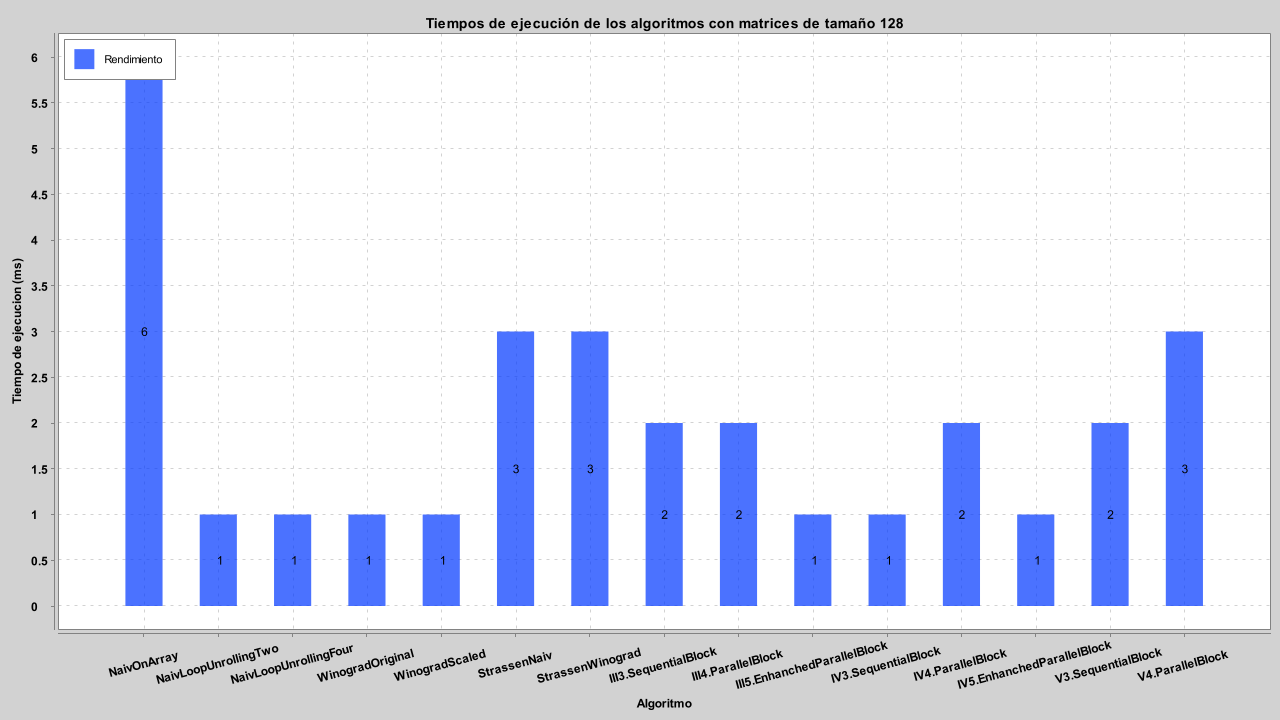
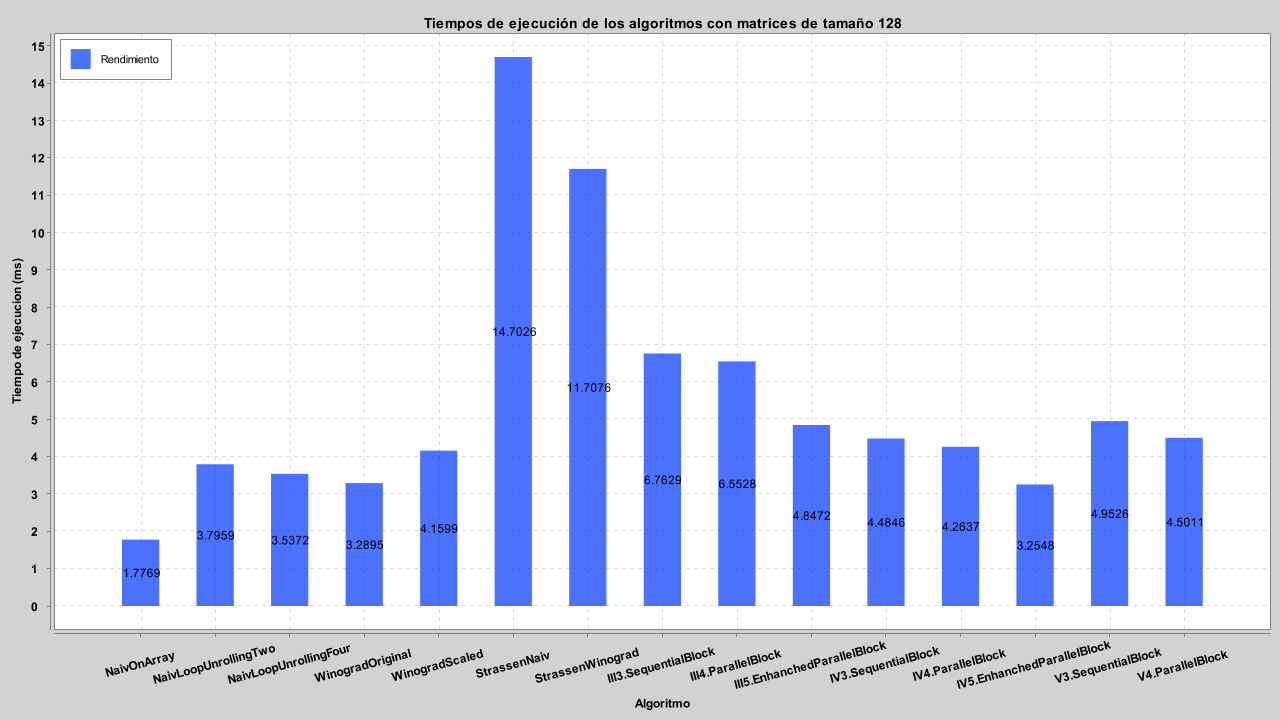
Se cambian las graficas a decimales

diff --git a/src/main/java/org/example/CalculadoraTiempos.java b/src/main/java/org/example/CalculadoraTiempos.java
@@ -25,7 +25,7 @@ import org.example.IV5_EnhancedParallelBlock.IV5_EnhancedParallelBlock;
 
 public class CalculadoraTiempos {
         protected static final List<String> categorias = new ArrayList<>();
-        protected static final List<Long> tiemposEjecucion = new ArrayList<>();
+        protected static final List<Double> tiemposEjecucion = new ArrayList<>();
     public static void calcularTiempos(int i) {
 
         double[][] a;
@@ -75,80 +75,80 @@ public class CalculadoraTiempos {
 
     }
     private static void calcularV4ParallelBlock(double[][] a, double[][] b) {
-        long start = System.currentTimeMillis();
+        long start = System.nanoTime();
         V4_ParallelBlock.matrixMultiplicationParallel(a, b, a.length, a.length/4);
-        long end = System.currentTimeMillis();
-        long executionTime = end - start;
+        long end = System.nanoTime();
+        double executionTime = (end - start)/1000000.0;
         categorias.add("V4.ParallelBlock");
         tiemposEjecucion.add(executionTime);
         System.out.println("Tiempo de ejecución V4.ParallelBlock: " + executionTime + " milisegundos");
         PerformanceLogger.logPerformance("V.4ParallelBlock ", a.length, executionTime);
     }
     private static void calcularV3SequentialBlock(double[][] a, double[][] b, int i, int j) {
-        long start = System.currentTimeMillis();
+        long start = System.nanoTime();
         V3_SequentialBlock.blockMatrixMultiply(a, b, i, j);
-        long end = System.currentTimeMillis();
-        long executionTime = end - start;
+        long end = System.nanoTime();
+        double executionTime = (end - start)/1000000.0;
         categorias.add("V3.SequentialBlock");
         tiemposEjecucion.add(executionTime);
         System.out.println("Tiempo de ejecución V3.SequentialBlock: " + executionTime + " milisegundos");
         PerformanceLogger.logPerformance("V.3SequentialBlock ", a.length, executionTime);
     }
     private static void calcularIV5EnhanchedParallelBlock(double[][] a, double[][] b) {
-        long start = System.currentTimeMillis();
+        long start = System.nanoTime();
         IV5_EnhancedParallelBlock.matrixMultiplicationParallel(a, b, a.length, a.length/4);
-        long end = System.currentTimeMillis();
-        long executionTime = end - start;
+        long end = System.nanoTime();
+        double executionTime = (end - start)/1000000.0;
         categorias.add("IV5.EnhanchedParallelBlock");
         tiemposEjecucion.add(executionTime);
         System.out.println("Tiempo de ejecución IV5.EnhanchedParallelBlock: " + executionTime + " milisegundos");
         PerformanceLogger.logPerformance("IV.5EnhanchedParallelBlock ", a.length, executionTime);
     }
     private static void calcularIV4ParallelBlock(double[][] a, double[][] b) {
-        long start = System.currentTimeMillis();
+        long start = System.nanoTime();
         IV4_ParallelBlock.matrixMultiplicationParallel(a, b, a.length, a.length/4);
-        long end = System.currentTimeMillis();
-        long executionTime = end - start;
+        long end = System.nanoTime();
+        double executionTime = (end - start)/1000000.0;
         categorias.add("IV4.ParallelBlock");
         tiemposEjecucion.add(executionTime);
         System.out.println("Tiempo de ejecución IV4.ParallelBlock: " + executionTime + " milisegundos");
         PerformanceLogger.logPerformance("IV.4ParallelBlock ", a.length, executionTime);
     }
     private static void calcularIV3SequentialBlock(double[][] a, double[][] b, int i, int j) {
-        long start = System.currentTimeMillis();
+        long start = System.nanoTime();
         IV3_SequentialBlock.blockMatrixMultiply(a, b, i, j);
-        long end = System.currentTimeMillis();
-        long executionTime = end - start;
+        long end = System.nanoTime();
+        double executionTime = (end - start)/1000000.0;
         categorias.add("IV3.SequentialBlock");
         tiemposEjecucion.add(executionTime);
         System.out.println("Tiempo de ejecución IV3.SequentialBlock: " + executionTime + " milisegundos");
         PerformanceLogger.logPerformance("IV.3SequentialBlock ", a.length, executionTime);
     }
     private static void calcularIII5EnhanchedParallelBlock(double[][] a, double[][] b) {
-        long start = System.currentTimeMillis();
+        long start = System.nanoTime();
         III5_EnhancedParallelBlock.matrixMultiplicationParallel(a, b, a.length, a.length/4);
-        long end = System.currentTimeMillis();
-        long executionTime = end - start;
+        long end = System.nanoTime();
+        double executionTime = (end - start)/1000000.0;
         categorias.add("III5.EnhanchedParallelBlock");
         tiemposEjecucion.add(executionTime);
         System.out.println("Tiempo de ejecución III5.EnhanchedParallelBlock: " + executionTime + " milisegundos");
         PerformanceLogger.logPerformance("III.5EnhanchedParallelBlock ", a.length, executionTime);
     }
     private static void calcularIII4ParallelBlock(double[][] a, double[][] b) {
-        long start = System.currentTimeMillis();
+        long start = System.nanoTime();
         III4_ParallelBlock.matrixMultiplicationParallel(a, b, a.length, a.length/4);
-        long end = System.currentTimeMillis();
-        long executionTime = end - start;
+        long end = System.nanoTime();
+        double executionTime = (end - start)/1000000.0;
         categorias.add("III4.ParallelBlock");
         tiemposEjecucion.add(executionTime);
         System.out.println("Tiempo de ejecución III4.ParallelBlock: " + executionTime + " milisegundos");
         PerformanceLogger.logPerformance("III.4ParallelBlock ", a.length, executionTime);
     }
     private static void calcularIII3SequentialBlock(double[][] a, double[][] b, int i, int j) {
-        long start = System.currentTimeMillis();
+        long start = System.nanoTime();
         III3_SequentialBlock.blockMatrixMultiply(a, b, i, j);
-        long end = System.currentTimeMillis();
-        long executionTime = end - start;
+        long end = System.nanoTime();
+        double executionTime = (end - start)/1000000.0;
         categorias.add("III3.SequentialBlock");
         tiemposEjecucion.add(executionTime);
         System.out.println("Tiempo de ejecución III3.SequentialBlock: " + executionTime + " milisegundos");
@@ -156,10 +156,10 @@ public class CalculadoraTiempos {
     }
     private static void calcularStrassenWinograd(double[][] a, double[][] b, double[][] resultado, int n, int p,
             int m) {
-        long start = System.currentTimeMillis();
+        long start = System.nanoTime();
         StrassenWinograd.multiply(a, b, resultado, n, p, m);
-        long end = System.currentTimeMillis();
-        long executionTime = end - start;
+        long end = System.nanoTime();
+        double executionTime = (end - start)/1000000.0;
         categorias.add("StrassenWinograd");
         tiemposEjecucion.add(executionTime);
         System.out.println("Tiempo de ejecución StrassenWinograd: " + executionTime + " milisegundos");
@@ -167,20 +167,20 @@ public class CalculadoraTiempos {
 
     }
     private static void calcularStrassenNaiv(double[][] a, double[][] b) {
-        long start = System.currentTimeMillis();
+        long start = System.nanoTime();
         StrassenNaiv.multiply(a, b);
-        long end = System.currentTimeMillis();
-        long executionTime = end - start;
+        long end = System.nanoTime();
+        double executionTime = (end - start)/1000000.0;
         categorias.add("StrassenNaiv");
         tiemposEjecucion.add(executionTime);
         System.out.println("Tiempo de ejecución StrassenNaiv: " + executionTime + " milisegundos");
         PerformanceLogger.logPerformance("StrassenNaiv ", a.length, executionTime);
     }
     private static void calcularWinogradScaled(double[][] a, double[][] b, double[][] resultado, int n, int p, int m) {
-        long start = System.currentTimeMillis();
+        long start = System.nanoTime();
         WinogradScaled.multiply(a, b, resultado, n, p, m);
-        long end = System.currentTimeMillis();
-        long executionTime = end - start;
+        long end = System.nanoTime();
+        double executionTime = (end - start)/1000000.0;
         categorias.add("WinogradScaled");
         tiemposEjecucion.add(executionTime);
         System.out.println("Tiempo de ejecución WinogradScaled: " + executionTime + " milisegundos");
@@ -188,10 +188,10 @@ public class CalculadoraTiempos {
     }
     private static void calcularWinogradOriginal(double[][] a, double[][] b, double[][] resultado, int n, int p,
             int m) {
-        long start = System.currentTimeMillis();
+        long start = System.nanoTime();
         WinogradOriginal.multiply(a, b, resultado, n, p, m);
-        long end = System.currentTimeMillis();
-        long executionTime = end - start;
+        long end = System.nanoTime();
+        double executionTime = (end - start)/1000000.0;
         categorias.add("WinogradOriginal");
         tiemposEjecucion.add(executionTime);
         System.out.println("Tiempo de ejecución WinogradOriginal: " + executionTime + " milisegundos");
@@ -199,30 +199,30 @@ public class CalculadoraTiempos {
         
     }
     private static void calcularNaivLoopUnrollingFour(double[][] a, double[][] b) {
-        long start = System.currentTimeMillis();
+        long start = System.nanoTime();
         NaivLoopUnrollingFour.multiply(a, b);
-        long end = System.currentTimeMillis();
-        long executionTime = end - start;
+        long end = System.nanoTime();
+        double executionTime = (end - start)/1000000.0;
         categorias.add("NaivLoopUnrollingFour");
         tiemposEjecucion.add(executionTime);    
         System.out.println("Tiempo de ejecución NaivLoopUnrollingFour: " + executionTime + " milisegundos");
         PerformanceLogger.logPerformance("NaivLoopUnrollingFour ", a.length, executionTime);
     }
     private static void calcularNaivLoopUnrollingTwo(double[][] a, double[][] b) {
-        long start = System.currentTimeMillis();
+        long start = System.nanoTime();
         NaivLoopUnrollingTwo.multiply(a, b);
-        long end = System.currentTimeMillis();
-        long executionTime = end - start;
+        long end = System.nanoTime();
+        double executionTime = (end - start)/1000000.0;
         categorias.add("NaivLoopUnrollingTwo");
         tiemposEjecucion.add(executionTime);    
         System.out.println("Tiempo de ejecución NaivLoopUnrollingTwo: " + executionTime + " milisegundos");
         PerformanceLogger.logPerformance("NaivLoopUnrollingTwo ", a.length, executionTime);
     }
     private static void calcularNaivOnArray(double[][] a, double[][] b) {
-        long start = System.currentTimeMillis();
+        long start = System.nanoTime();
         NaivOnArray.multiply(a, b);
-        long end = System.currentTimeMillis();
-        long executionTime = end - start;
+        long end = System.nanoTime();
+        double executionTime = (end - start)/1000000.0;
         categorias.add("NaivOnArray");
         tiemposEjecucion.add(executionTime);
         System.out.println("Tiempo de ejecución NaivOnArray: " + executionTime + " milisegundos");    

diff --git a/src/main/java/org/example/PerformanceLogger.java b/src/main/java/org/example/PerformanceLogger.java
@@ -19,11 +19,11 @@ public class PerformanceLogger {
      * @param inputSize el tamaño de la entrada al algoritmo
      * @param executionTime el tiempo de ejecución del algoritmo en nanosegundos
      */
-    public static void logPerformance(String algorithmName, int inputSize, long executionTime) {
+    public static void logPerformance(String algorithmName, int inputSize, double executionTime) {
         // Utiliza try-with-resources para asegurar que el BufferedWriter se cierre después de su uso
         try (BufferedWriter writer = new BufferedWriter(new FileWriter(FILE_NAME, true))) {
             // Escribe los datos de rendimiento en el archivo
-            writer.write(String.format("%s, %d, %d\n", algorithmName, inputSize, executionTime));
+            writer.write(String.format("%s, %d, %.4f\n", algorithmName, inputSize, executionTime));
         } catch (IOException e) {
             // Imprime la traza de pila para cualquier IOException
             e.printStackTrace();

diff --git a/src/main/java/org/example/ChartGenerator.java b/src/main/java/org/example/ChartGenerator.java
@@ -21,7 +21,7 @@ public class ChartGenerator {
      * @param xAxisTitle el título del eje x
      * @param yAxisTitle el título del eje y
      */
-    public static void generateBarChart(List<String> categories, List<Long> values, String chartTitle, String xAxisTitle, String yAxisTitle, int i) {
+    public static void generateBarChart(List<String> categories, List<Double> values, String chartTitle, String xAxisTitle, String yAxisTitle, int i) {
         // Crea un nuevo gráfico de barras
         CategoryChart chart = new CategoryChartBuilder().width(1280).height(720).title(chartTitle).xAxisTitle(xAxisTitle).yAxisTitle(yAxisTitle).build();
 
